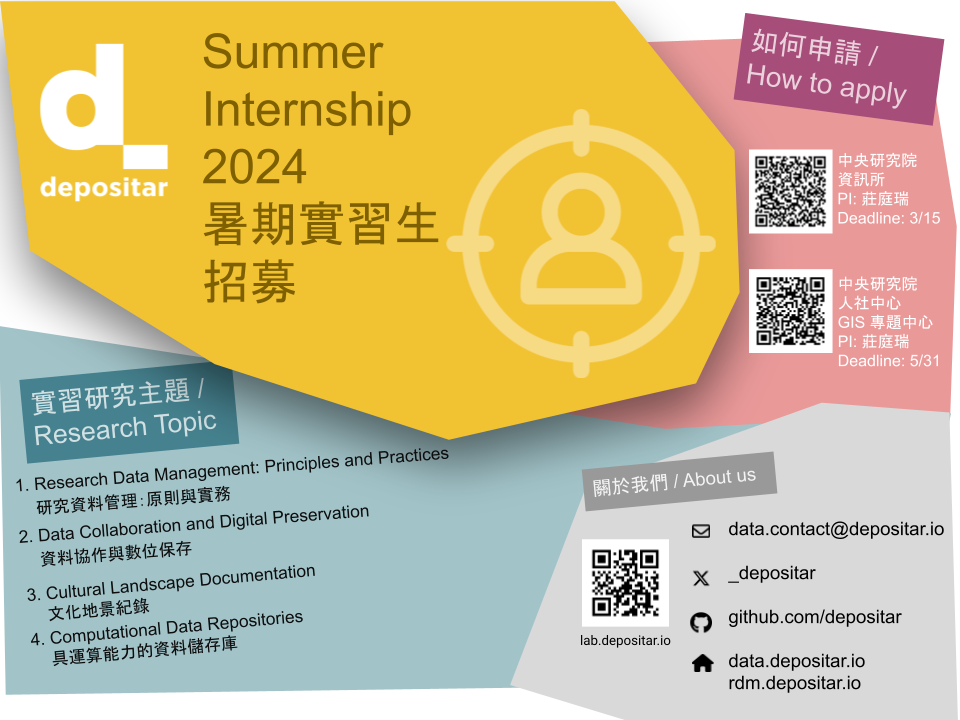
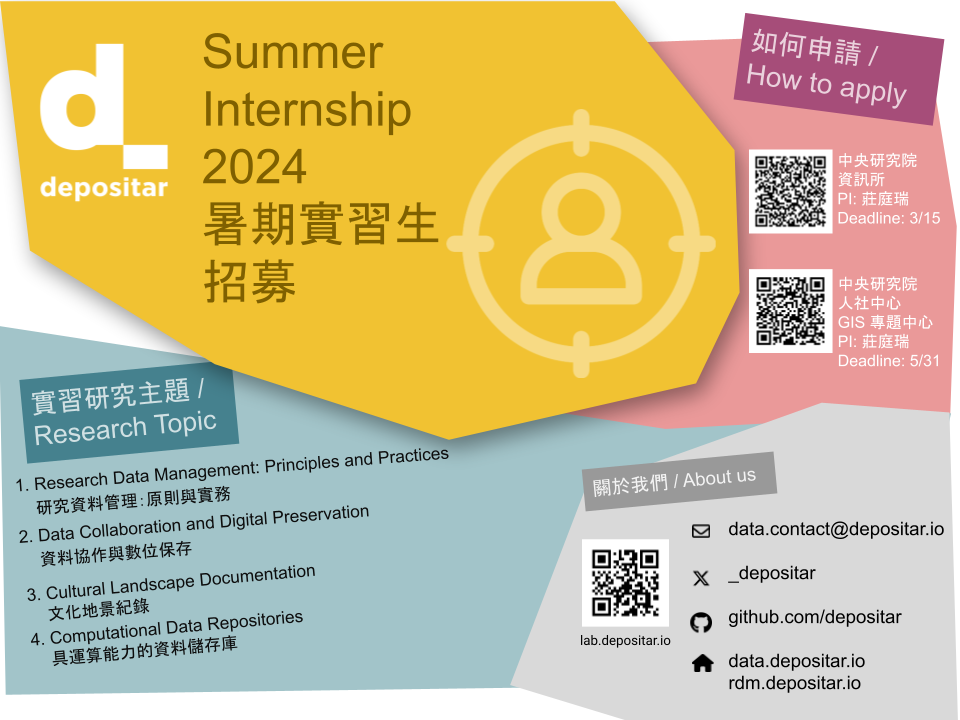
modify 240304

Changed region(s): [[0.0, 0.0611, 0.7812, 0.6722]]

diff --git a/_i18n/zh-tw/_news/240304_1.md b/_i18n/zh-tw/_news/240304_1.md
@@ -1,6 +1,6 @@
 <div class="row">
     <div class="col-sm mt-3 mt-md-0">
-        {% include figure.html path="assets/img/news/2024internposter.png" alt="Summer Internship 2024" class="img-fluid rounded z-depth-1" %}
+        {% include figure.html path="assets/img/news/2024internposter.png" alt="Summer Internship 2024" class="img-fluid rounded" %}
     </div>
 </div>
 
